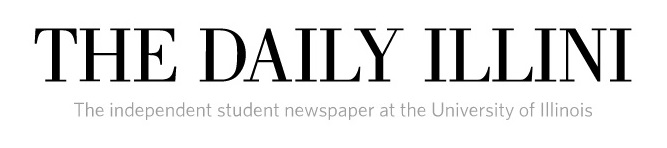
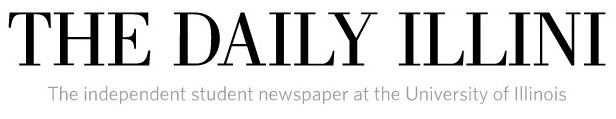
Change default Daily Illini image and adjust ints position [#2264]

Changed region(s): [[0.0, 0.1008, 0.987, 0.5546], [0.0617, 0.6807, 0.9253, 0.8571]]

diff --git a/lib/ui/home/HomeDailyIlliniWidget.dart b/lib/ui/home/HomeDailyIlliniWidget.dart
@@ -349,38 +349,17 @@ class _DailyIlliniItemWidget extends StatelessWidget {
                   Column(children: [
                     StringUtils.isNotEmpty(illiniItem?.thumbImageUrl)
                         ? Image.network(illiniItem!.thumbImageUrl!, excludeFromSemantics: true)
-                        : Image.asset('images/daily-illini-placeholder.jpg'),
+                        : Row(children: [Expanded(child: Image.asset('images/daily-illini-placeholder.jpg', fit: BoxFit.fill))]),
                     Row(mainAxisSize: MainAxisSize.max, mainAxisAlignment: MainAxisAlignment.spaceBetween, children: [
-                      Visibility(
-                          visible: (onTapPrevious != null),
-                          child: Semantics(
-                              label: Localization().getStringEx('widget.home.daily_illini.item.page.previous.hint', 'Previous page'),
-                              button: true,
-                              child: GestureDetector(
-                                  onTap: onTapPrevious ?? () {},
-                                  child: Container(
-                                      padding: EdgeInsets.all(24),
-                                      child: Text("<",
-                                          semanticsLabel: "",
-                                          style: TextStyle(
-                                              color: Styles().colors!.fillColorPrimary,
-                                              fontFamily: Styles().fontFamilies!.bold,
-                                              fontSize: 26)))))),
-                      Visibility(
-                          visible: (onTapNext != null),
-                          child: Semantics(
-                              label: Localization().getStringEx('widget.home.daily_illini.item.page.next.hint', 'Next page'),
-                              button: true,
-                              child: GestureDetector(
-                                  onTap: onTapNext ?? () {},
-                                  child: Container(
-                                      padding: EdgeInsets.all(24),
-                                      child: Text(">",
-                                          semanticsLabel: "",
-                                          style: TextStyle(
-                                              color: Styles().colors!.fillColorPrimary,
-                                              fontFamily: Styles().fontFamilies!.bold,
-                                              fontSize: 26))))))
+                      _buildNavigationButton(
+                          navigationDirection: '<',
+                          semanticsLabel: Localization().getStringEx('widget.home.daily_illini.item.page.previous.hint', 'Previous page'),
+                          onTap: onTapPrevious),
+                      _buildNavigationButton(
+                          navigationDirection: '>',
+                          semanticsLabel: Localization().getStringEx('widget.home.daily_illini.item.page.next.hint', 'Next page'),
+                          onTap: onTapNext)
+                      
                     ]),
                     Padding(
                         padding: EdgeInsets.symmetric(vertical: 10, horizontal: 20),
@@ -393,6 +372,23 @@ class _DailyIlliniItemWidget extends StatelessWidget {
                       child: Text(StringUtils.ensureNotEmpty(illiniItem?.displayPubDate),
                           style: TextStyle(color: Styles().colors!.textSurface, fontFamily: Styles().fontFamilies!.medium, fontSize: 14)))
                 ]))));
+  }
+
+  Widget _buildNavigationButton({required String navigationDirection, required String semanticsLabel, void Function()? onTap}) {
+    return Visibility(
+        visible: (onTap != null),
+        child: Semantics(
+            label: semanticsLabel,
+            button: true,
+            child: GestureDetector(
+                onTap: onTap ?? () {},
+                child: Container(
+                    color: Colors.transparent,
+                    padding: EdgeInsets.symmetric(horizontal: 24, vertical: 18),
+                    child: Text(navigationDirection,
+                        semanticsLabel: "",
+                        style:
+                            TextStyle(color: Styles().colors!.fillColorPrimary, fontFamily: Styles().fontFamilies!.bold, fontSize: 26))))));
   }
 
   void _onTap() {
